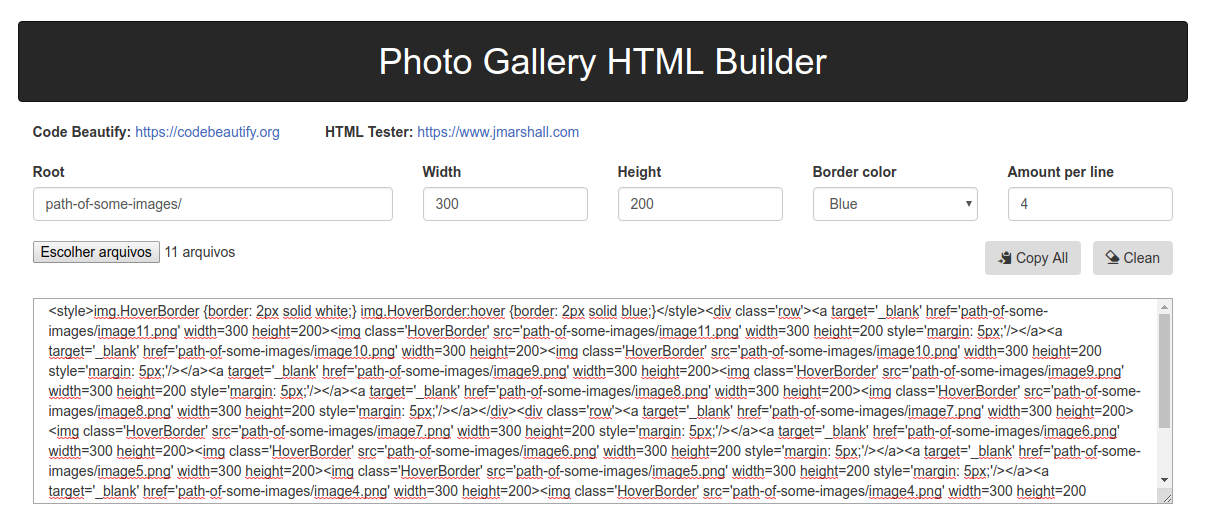
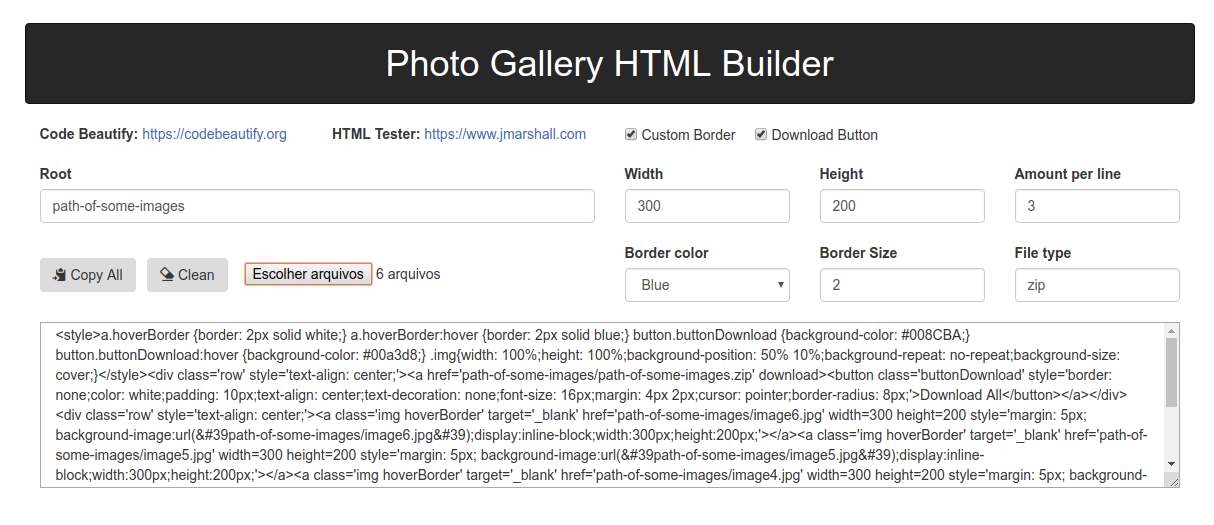
Updating Readme file

diff --git a/README.md b/README.md
@@ -6,18 +6,27 @@ I created this simple solution to a need that my father was having on some of th
 
 ![Alt text](image/sample.png?raw=true "Sample")
 
-1. **_To use the builder, simply clone the project and open index.html in any browser._**
+1. **_To use the builder, you can [click here](https://photo-gallery-html-builder.herokuapp.com) or simply clone the project and open index.html in any browser._**
 
 2.  **_Pass the required parameters as directed below._**
-    * **Root:** pass the path of the images that you want to upload.
+    * **Root:** pass the path of the images that you want to upload as in the picture (without slash at the end).
     * **Width:** width of each image in pixels.
     * **Height:** height of each image in pixel.
-    * **Border color:** select a color for the border of the images by placing the mouse over them.
     * **Amount per line:** number of images per line.
+    ```
+    Optionals:
+       
+    If you have selected the 'Custom Border' option you must put the options below:
+        - Border color: select a color for the border.
+        - Border size: choose the border size of each image.
+       
+    If you have selected the 'Download Button' option you must put the option below:
+        - File type: Indicate the type of compression file to download.
+          Note: This file must be created by the user, it must be in the same folder that contains the images and must have all the images attached to it.
 
 3. **_After passing the parameters you must upload the images you need. 
 Your code will be generated and available below._**
 
-4. **_To finish, use the button to copy the generated code and paste it into your html page._**
+4. **_To finish, use the button 'Copy All' to copy the generated code and paste it into your html page._**
 
 > _Hope this helps somebody!_ :+1:
